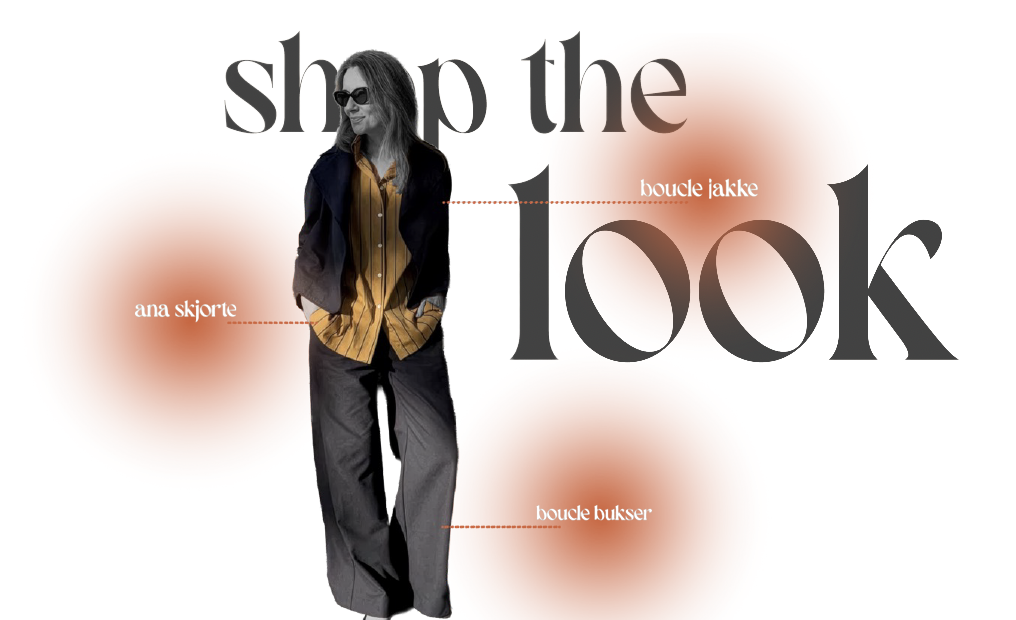
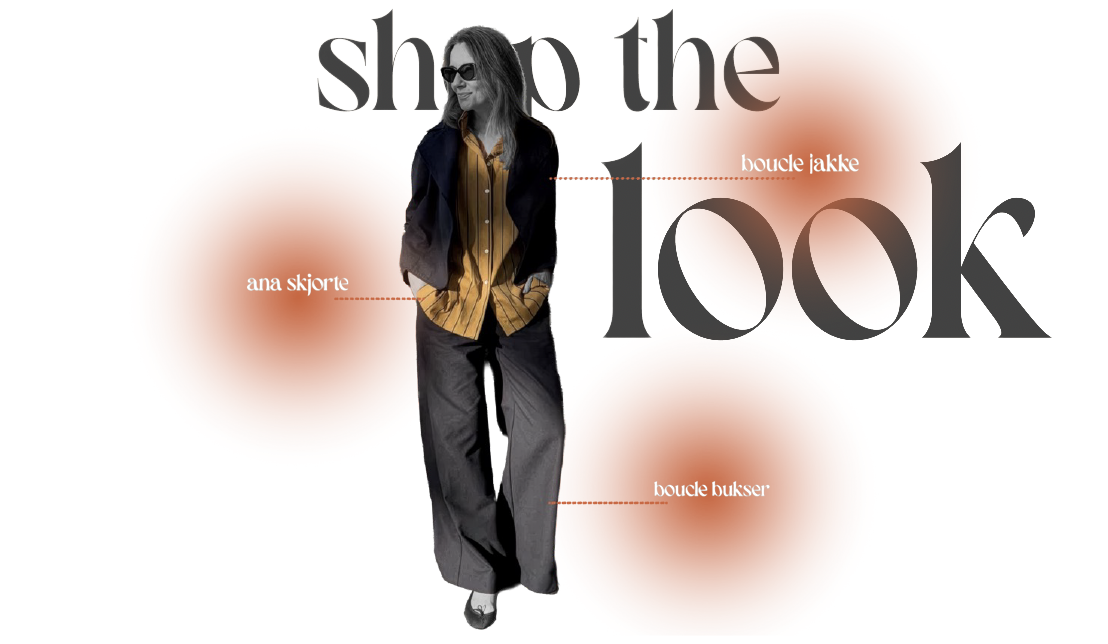
rettelser af heros position

diff --git a/css/stylesheet.css b/css/stylesheet.css
@@ -23,12 +23,13 @@ img {
 }
 
 .header {
+  max-width: 1200px;
+  margin: 0 auto;
+  padding: 1rem 1.5rem;
   display: flex;
   align-items: center;
   justify-content: space-between;
-  padding: 1rem 1.5rem;
   position: relative;
-  z-index: 10;
 }
 
 .burger {
@@ -46,6 +47,7 @@ img {
 .logo img {
   height: 40px;
   width: auto;
+  margin-left: 70px;
 }
 
 .header-ikoner {
@@ -75,39 +77,55 @@ main {
 
 .hero-1 img,
 .hero-2 img,
-.hero-3 img,
-.hero-4 img,
 .hero-5 img,
 .hero-6 img {
   width: 100%;
   height: auto;
 }
 
+.hero-3 img,
+.hero-4 img {
+  width: auto;          /* fjerner tvungen 100% bredde */
+  max-width: 90%;       /* så det stadig skalerer på små skærme */
+  height: auto;
+  display: block;
+  margin-left: auto;
+  margin-right: auto;   /* centrerer billedet */
+}
 
 .hero-btn {
   position: absolute;
   right: 5%;
   bottom: 8%;
-  padding: 0.7rem 1.8rem;
-  background: #ffffff;
-  color: #333333;
-  border-radius: 999px;
+  padding: 0.3rem 1rem;
+  background: transparent;
+  color: #ffffff;
   border: 1px solid #ffffff;
+  border-radius: 20px;
+  font-size: 1rem;
+  font-weight: 500;
   text-decoration: none;
-  font-size: 0.95rem;
+  display: inline-block;
+  text-align: center;
 }
 
+.hero-2 {
+  padding-bottom: 4rem;
+}
 .style-row {
-  width: 100%;
-  padding: 2rem 1.5rem 4rem;
+  max-width: 1100px;
+  margin: -20rem auto 3rem;
+  padding: 0 1.5rem;
   display: flex;
-  flex-direction: column;
-  gap: 1.5rem;
-  align-items: center;
+  flex-direction: row;
+  justify-content: center;
+  align-items: flex-start;
+  gap: 1rem;
+  position: relative;
+  z-index: 10;
 }
-
 .product {
-  width: 100%;
+  flex: 1;
   max-width: 320px;
 }
 
@@ -116,6 +134,26 @@ main {
   height: auto;
 }
 
+.hero-4 {
+  padding-top: 2rem;
+  padding-bottom: 2rem;
+}
+
+.hero-6 {
+  position: relative;
+  text-align: center;
+}
+
+.hero-6 .hero-btn {
+  position: absolute;
+  left: 0;
+  right: 0;
+  bottom: 25%;
+  width: fit-content;
+  margin-left: auto;
+  margin-right: auto;
+  display: block;
+}
 .site-footer {
   background: linear-gradient(#dcdcdc, #b3b3b3);
   padding: 3rem 1.5rem;
@@ -141,40 +179,32 @@ main {
   padding: 0.2rem 0;
 }
 
-@media (min-width: 768px) {
+@media (min-width: 1024px) {
   .header {
-    padding: 1.2rem 3rem;
+    padding: 1.5rem 3rem;
   }
 
-  .hero-btn {
-    right: 8%;
-    bottom: 12%;
+  .logo img {
+    height: 52px;
+  }
+
+  .burger img {
+    width: 28px;
+    height: 28px;
+  }
+
+  .header-ikoner .ikon img {
+    width: 26px;
+    height: 26px;
   }
 
   .style-row {
-    flex-direction: row;
-    justify-content: center;
-    align-items: flex-start;
+    max-width: 1200px;
+    margin-top: -55rem;
+    gap: 2.5rem;
   }
 
   .product {
-    max-width: 260px;
-  }
-
-  .footer-columns {
-    grid-template-columns: 2fr 1fr 1fr;
-    align-items: flex-start;
-  }
-
-  .footer-col.left {
-    max-width: 420px;
-  }
-
-  .footer-col.center {
-    text-align: left;
-  }
-
-  .footer-col.right {
-    text-align: right;
+    max-width: 340px;
   }
 }
